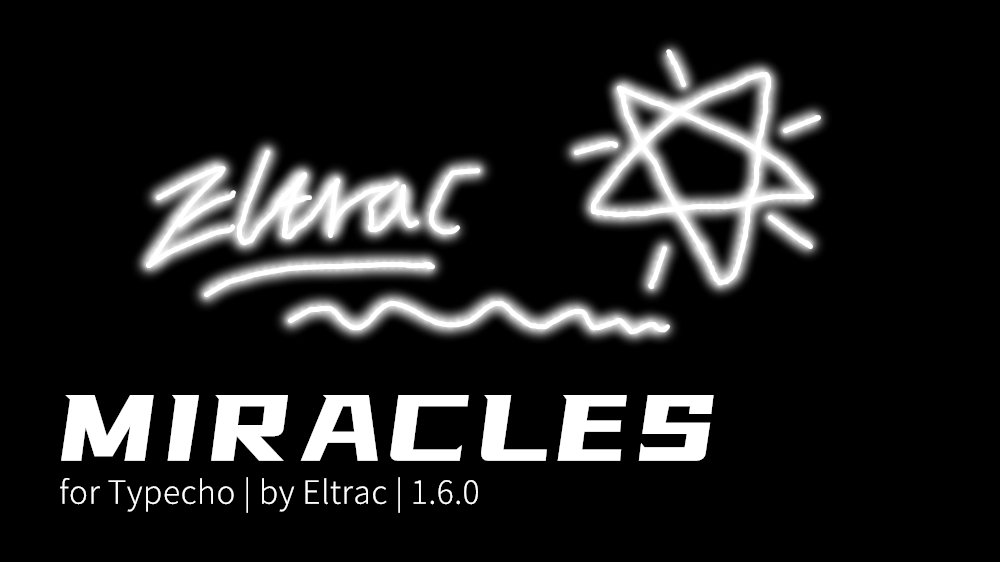
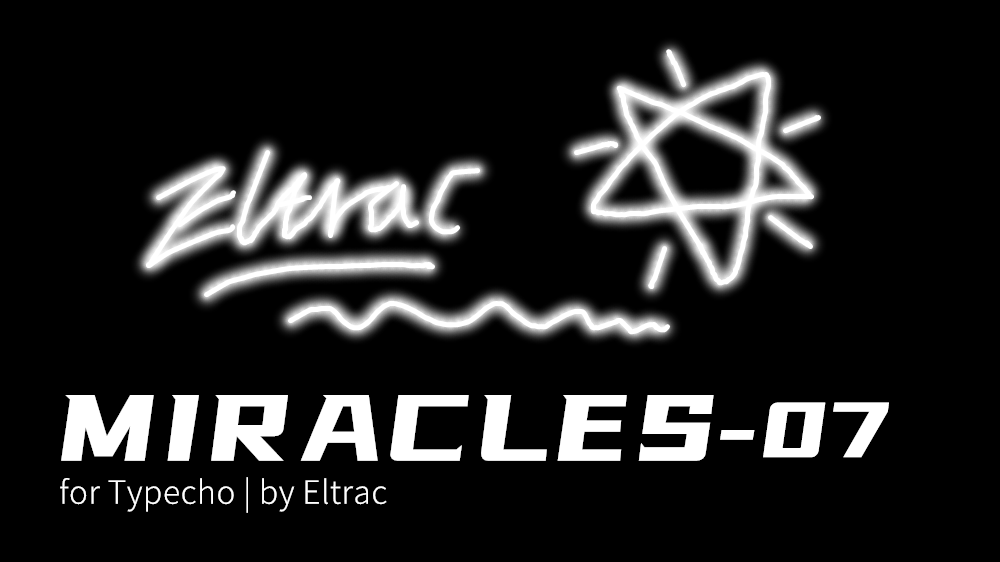
修复了归档页面文章链接失效的问题；更改版本号获取仓库API

Changed region(s): [[0.713, 0.6957, 0.899, 0.8167], [0.403, 0.847, 0.496, 0.9075]]

diff --git a/assets/js/update.miracles.js b/assets/js/update.miracles.js
@@ -1,5 +1,5 @@
 (function($){
-	var api = "https://api.github.com/repos/BigCoke233/miracles/releases";
+	var api = "https://api.github.com/repos/pzwboy/miracles-07/releases";
 	$.ajax({
       url: api,
       type: "GET",

diff --git a/pagefile.php b/pagefile.php
@@ -32,21 +32,27 @@ $this->need('includes/header.php');
 
 		  <h2><?php gtecho('archivePageTexts','archivePostTitle'); ?></h2>
 		  <ul class="archives-list"><?php
+      $this->widget('Widget_Contents_Post_Recent', 'pageSize=10000')->to($articles);
       $archives = Contents::archives($this);
       $number = 0;
+	  $permalinkMap = array();
+	  while($articles->next()) {
+	  $permalinkMap[$articles->created] = $articles->permalink;
+	  }
       foreach($archives as $year => $posts) {
        $detailsOpen = ($number === 0) ? ' open' : NULL;
        echo '<details'.$detailsOpen.'>';
        echo '<summary>'.$year.' '.gt('archivePageTexts','archiveTimeYear').'<small class="archives-count">'.gta('archivePageTexts','archiveYearTotal',count($posts)).'</small></summary>';
         foreach($posts as $created => $post) {
-         echo '<li><a href="'.$post['permalink'].'" class="no-line">
-          <span class="archives-date">'.date('m-d', $created).'</span>
-          '.$post['title'].'
-        </a></li>';
+        $permalink = isset($permalinkMap[$created]) ? $permalinkMap[$created] : '#'?>
+	  <li><a href="<?php echo $permalink; ?>" class="no-line">
+          <span class="archives-date"><?php echo date('m-d', $created); ?></span>
+          <?php echo $post['title']; ?>
+        </a></li><?php
         }
-       echo '</details>';
-       $number++;
-      }?>
+        echo '</details>';
+        $number++;
+        }?>
 		  </ul>
 		</div>
 	  </div>

diff --git a/index.php b/index.php
@@ -1,11 +1,12 @@
 <?php
 /**
+ * <a href="https://github.com/pzwboy/miracles-07">Miracles-07</a>
  * Born to be the Miracles. 生为奇迹
  * 作者：<a href="https://guhub.cn">Eltrac</a> | 帮助文档：<a href="https://github.com/BigCoke233/miracles/blob/master/docs/wiki.md">Wiki</a>
  * 
  * @package     Miracles
  * @author      Eltrac
- * @version     1.6.0
+ * @version     1.6.0-07
  * @link        https://guhub.cn
  */
 if (!defined('__TYPECHO_ROOT_DIR__')) exit;

diff --git a/README.md b/README.md
@@ -1,8 +1,10 @@
 基于Typecho主题`Miracles`v1.6.0（发行版）
 
-原作者为[BigCoke233](https://github.com/BigCoke233)
+原作者为[Eltrac（BigCoke233）](https://github.com/BigCoke233)
 
-为了自用，改/删了一点东西。
+改/删了一点东西，修了些bug
+
+版本号不会动了
 
 ## 🚀 使用
 
